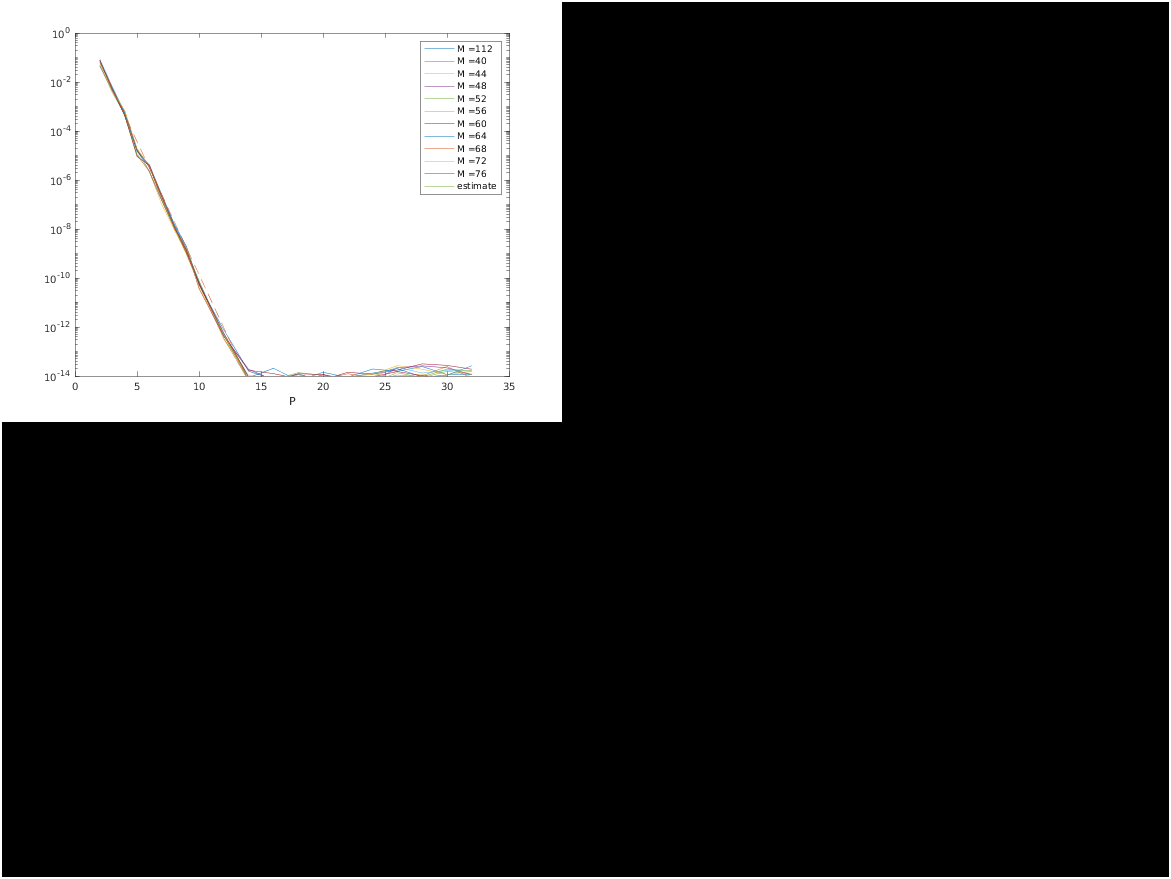
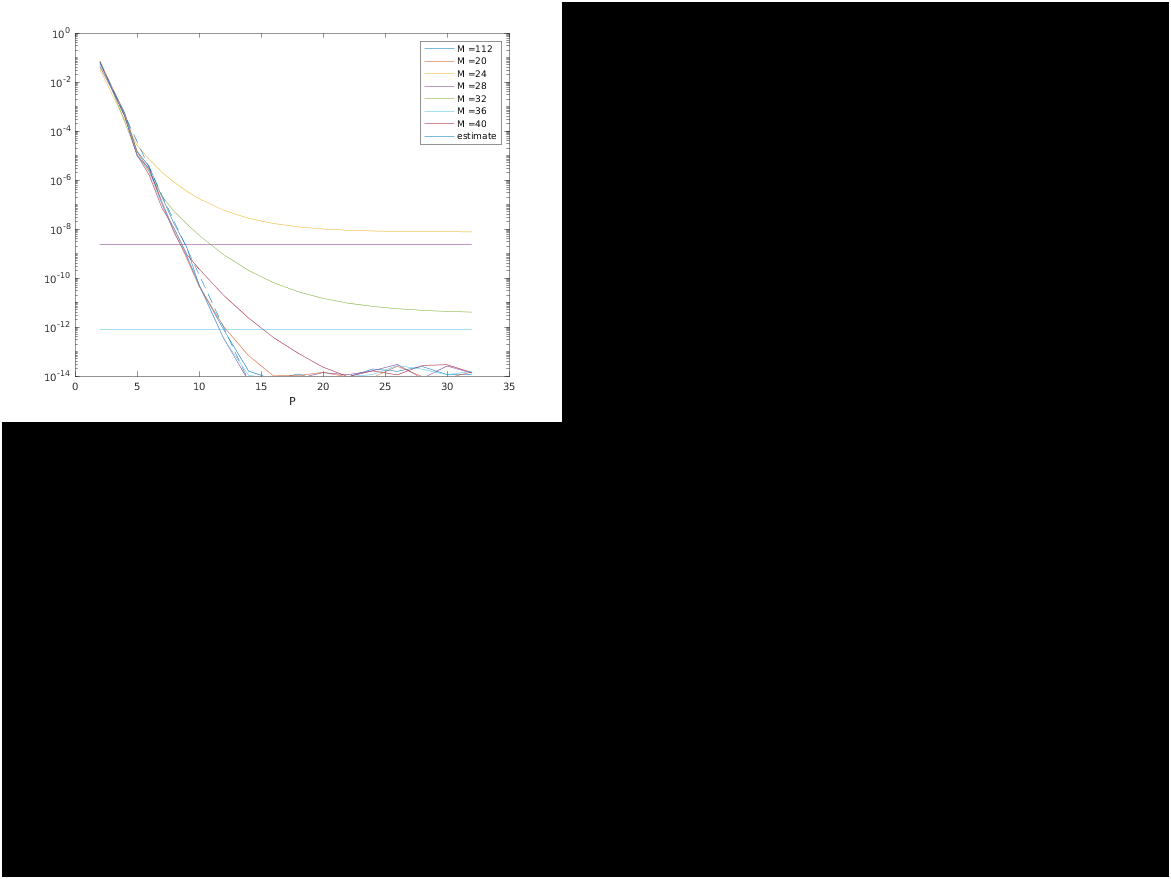
imgs

diff --git a/SE_Stokes_run/SE3P_Stokes/P_error.m b/SE_Stokes_run/SE3P_Stokes/P_error.m
@@ -40,7 +40,7 @@ end
 	%opt.window = 'gaussian';
 %ref = SE3P_Stokes(1:N,x,f,opt);
 %% Compare solutions with changing P
-MM = 40:4:76;
+MM = 20:4:40;
 str = {};
 est = @(M,xi,L,f) sqrt(f)*(xi^3*L^2/(pi^4*(M/2)^(3/2)))*exp(-(pi*(M/2)/(xi*L))^2);
 e_vec = [];
